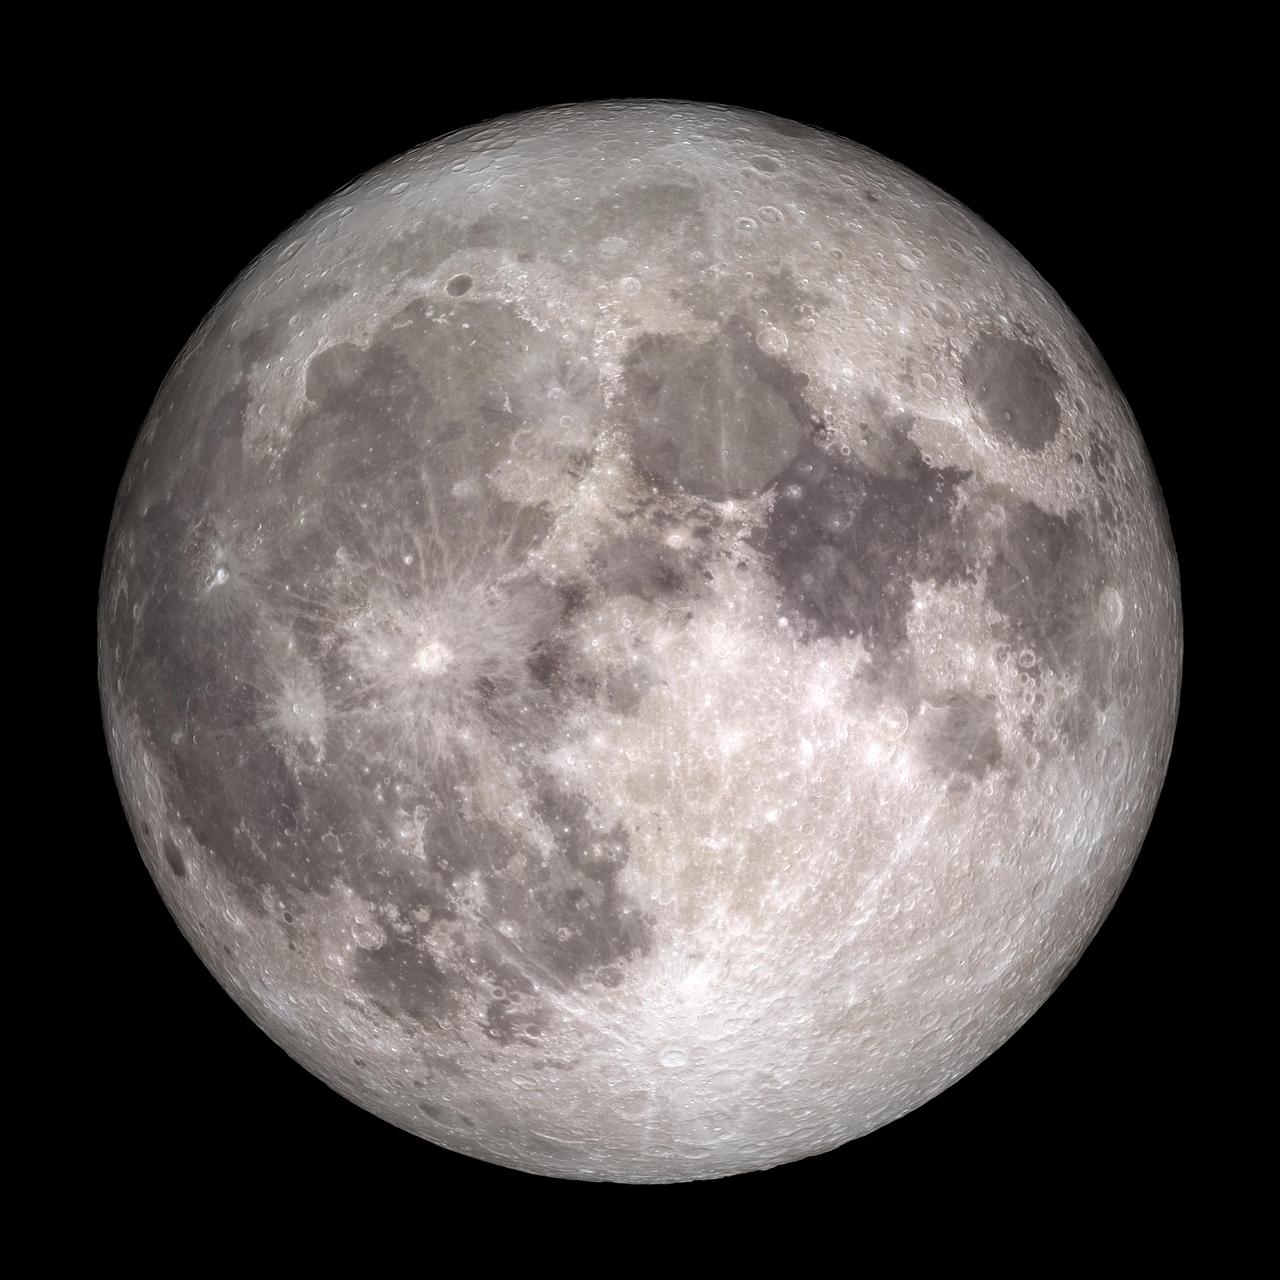
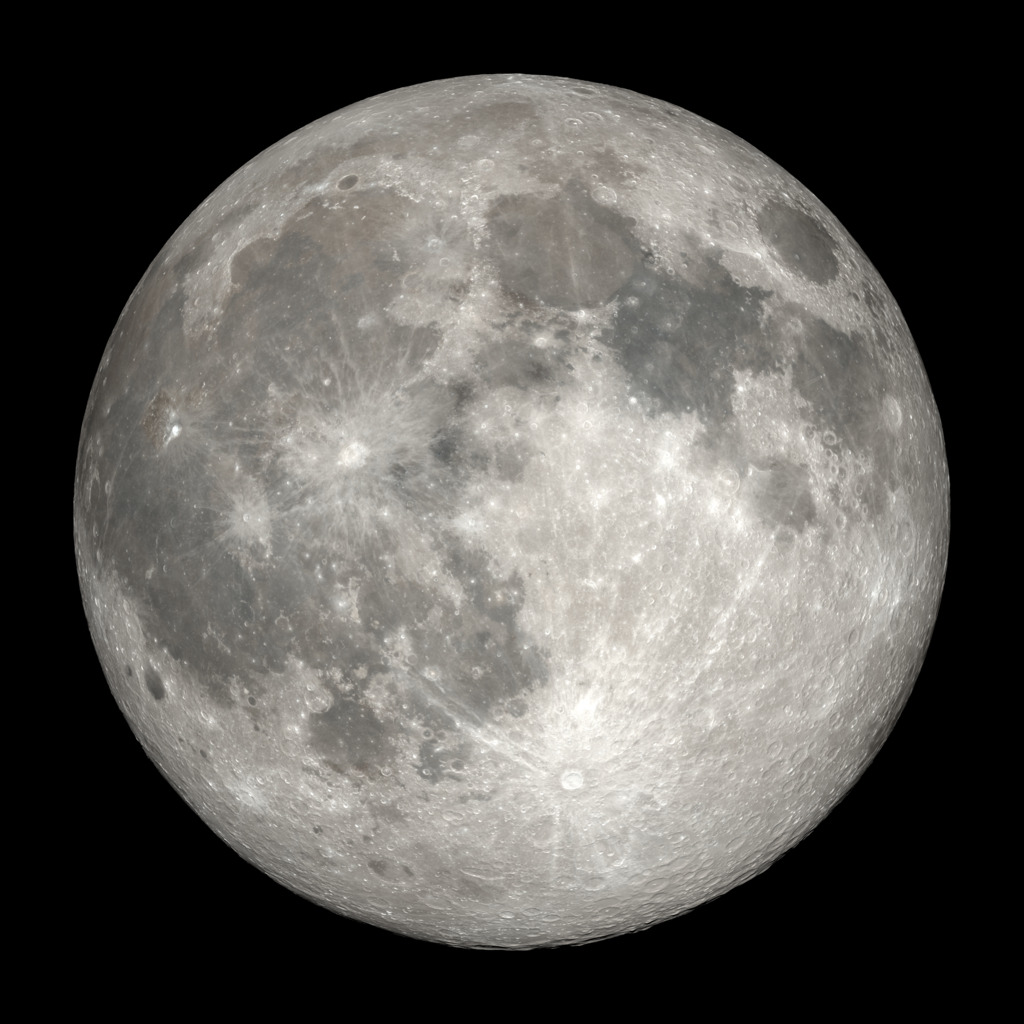
fix & feat: upgrade moon background to NASA SVS official imagery and reinforce AI project navigator with multi-entry triggers and dual smooth scroll

Changed region(s): [[0.0625, 0.0625, 0.9375, 0.9375]]

diff --git a/index.html b/index.html
@@ -64,10 +64,10 @@
         <div class="absolute -inset-10 rounded-full bg-gradient-to-tr from-sky-400/14 via-slate-200/10 to-indigo-400/10 blur-2xl pointer-events-none"></div>
         <div class="absolute -inset-2 rounded-full border border-slate-300/20 shadow-[0_0_60px_rgba(186,230,253,0.25)] pointer-events-none"></div>
 
-        <!-- 真實 NASA 1280x1280 高精細攝影月球本體 -->
+        <!-- 真實 NASA SVS (Scientific Visualization Studio) 高精細月球本體 -->
         <div class="w-full h-full rounded-full relative overflow-hidden cinema-moon-body shadow-[0_25px_60px_rgba(0,0,0,0.95)]">
-          <!-- NASA 高清月面紋理 (Full Near-side High-Resolution Imagery) -->
-          <img src="assets/moon.jpg" alt="Cinematic Moon" class="w-full h-full object-cover scale-105 pointer-events-none select-none filter contrast-[1.08] brightness-[0.96]">
+          <!-- NASA SVS 官方公開高清月面紋理 (Lunar Reconnaissance Orbiter LOLA/LROC Imagery) -->
+          <img src="assets/moon.jpg" alt="NASA SVS Cinematic Moon" class="w-full h-full object-cover scale-105 pointer-events-none select-none filter contrast-[1.08] brightness-[0.98]">
 
           <!-- 電影級 3D 球形晨昏線陰影層 (Cinematic 3D Spherical Terminator & Relief Lighting) -->
           <div class="absolute inset-0 cinema-moon-shadow"></div>
@@ -124,7 +124,7 @@
         </a>
 
         <!-- Desktop Nav Items -->
-        <nav class="hidden md:flex items-center gap-6 text-sm font-medium text-slate-300">
+        <nav class="hidden md:flex items-center gap-5 text-sm font-medium text-slate-300">
           <a href="#about" class="hover:text-cyan-300 transition-colors">核心特質</a>
           <a href="#combat-power" class="hover:text-amber-300 transition-colors flex items-center gap-1">
             <i data-lucide="activity" class="w-3.5 h-3.5 text-amber-400"></i>
@@ -138,6 +138,14 @@
           <a href="#education" class="hover:text-pink-300 transition-colors">學歷背景</a>
           <a href="#passions" class="hover:text-cyan-300 transition-colors">生活與探索</a>
 
+          <!-- 專案導覽 AI 啟動按鈕 (加強版導覽連結) -->
+          <button id="nav-project-ai-btn" class="nav-ai-trigger px-3.5 py-1.5 rounded-xl bg-gradient-to-r from-cyan-950/90 via-purple-950/80 to-[#12082b] border border-cyan-400/50 hover:border-cyan-300 text-cyan-300 hover:text-white transition-all shadow-md shadow-cyan-950/50 hover:shadow-cyan-400/30 flex items-center gap-2 group cursor-pointer" title="開啟 AI 智慧專案導覽員">
+            <span class="w-2 h-2 rounded-full bg-cyan-400 animate-ping"></span>
+            <i data-lucide="bot" class="w-4 h-4 text-cyan-400 group-hover:scale-110 transition-transform"></i>
+            <span class="font-bold text-xs sm:text-sm">專案導覽</span>
+            <span class="text-[9px] px-1.5 py-0.2 rounded bg-cyan-400/20 text-cyan-200 font-black">AI</span>
+          </button>
+
           <!-- 音效開關切換按鈕 -->
           <button id="sound-toggle-btn" class="p-2 rounded-xl bg-purple-950/60 hover:bg-purple-900/80 border border-purple-500/30 text-purple-300 hover:text-white transition-all shadow-sm" title="音效切換（開 / 關）">
             <i id="sound-icon" data-lucide="volume-2" class="w-4 h-4"></i>
@@ -150,6 +158,9 @@
 
         <!-- Mobile Menu Toggle -->
         <div class="md:hidden flex items-center gap-2">
+          <button id="mobile-nav-project-icon-btn" class="nav-ai-trigger p-2 rounded-lg bg-cyan-950/70 border border-cyan-500/40 text-cyan-300 hover:text-white" title="專案導覽 AI">
+            <i data-lucide="bot" class="w-5 h-5"></i>
+          </button>
           <button id="mobile-menu-btn" class="p-2 rounded-lg text-slate-300 hover:text-white hover:bg-purple-950/60 focus:outline-none">
             <i data-lucide="menu" class="w-6 h-6"></i>
           </button>
@@ -159,6 +170,15 @@
 
     <!-- Mobile Nav Menu -->
     <div id="mobile-menu" class="hidden md:hidden px-4 pt-2 pb-6 border-b border-purple-900/40 bg-[#080312]/95 space-y-3">
+      <!-- 手機版專案導覽專屬主按鈕 -->
+      <button id="mobile-nav-project-ai-btn" class="nav-ai-trigger w-full text-left py-2.5 px-3 rounded-xl bg-gradient-to-r from-cyan-950/90 via-purple-950/70 to-transparent border border-cyan-400/60 text-cyan-300 font-bold flex items-center justify-between cursor-pointer shadow-lg shadow-cyan-950/50">
+        <span class="flex items-center gap-2.5">
+          <i data-lucide="bot" class="w-5 h-5 text-cyan-400"></i>
+          <span class="text-white">🚀 專案導覽 (AI 智慧導覽員)</span>
+        </span>
+        <span class="text-[10px] px-2 py-0.5 rounded-full bg-cyan-400 text-black font-black">開啟導覽</span>
+      </button>
+
       <a href="#about" class="mobile-nav-link block py-2 text-slate-300 hover:text-cyan-400">核心特質</a>
       <a href="#combat-power" class="mobile-nav-link block py-2 text-amber-300">專業能力指標</a>
       <a href="#experience" class="mobile-nav-link block py-2 text-slate-300 hover:text-purple-300">經歷實績</a>
@@ -210,6 +230,10 @@
               <i data-lucide="mail" class="w-5 h-5 text-yellow-300"></i>
               預約面試 ｜ 聯絡洽談
             </a>
+            <button id="hero-ai-nav-btn" class="nav-ai-trigger inline-flex items-center gap-2.5 px-6 py-3.5 rounded-2xl border-2 border-cyan-400/60 bg-cyan-950/50 hover:bg-cyan-900/70 text-cyan-300 font-extrabold transition-all shadow-lg shadow-cyan-500/20 hover:scale-105 cursor-pointer">
+              <i data-lucide="bot" class="w-5 h-5 text-cyan-400 animate-pulse"></i>
+              🚀 專案導覽 (AI)
+            </button>
             <a href="#combat-power" id="combat-trigger-btn" class="inline-flex items-center gap-2.5 px-6 py-3.5 rounded-2xl border-2 border-amber-400/60 bg-amber-950/30 hover:bg-amber-900/50 text-amber-300 font-bold transition-all shadow-lg shadow-amber-500/20 hover:scale-105">
               <i data-lucide="activity" class="w-5 h-5 text-amber-400"></i>
               檢視專業能力指標
@@ -1233,10 +1257,19 @@
   <!-- ============================================================ -->
   <!-- 獨立輕量 AI 專案導覽助理 (Pure Frontend Cyber AI Navigator) -->
   <!-- ============================================================ -->
-  <div id="ai-navigator-root" class="fixed bottom-5 right-5 sm:bottom-7 sm:right-7 z-50 select-none">
+  <!-- 浮動導覽達成提示 (Navigation Toast Notification) -->
+  <div id="ai-nav-toast" class="fixed top-20 left-1/2 -translate-x-1/2 z-[99999] pointer-events-none transition-all duration-300 opacity-0 -translate-y-4">
+    <div class="px-5 py-2.5 rounded-2xl bg-[#0d071f]/95 border border-cyan-400/80 shadow-2xl shadow-cyan-500/40 text-xs sm:text-sm text-white font-bold flex items-center gap-2.5 backdrop-blur-xl">
+      <span class="w-2.5 h-2.5 rounded-full bg-cyan-400 animate-ping"></span>
+      <i data-lucide="compass" class="w-4 h-4 text-cyan-300"></i>
+      <span id="ai-nav-toast-text">已鎖定並導覽至展示區！</span>
+    </div>
+  </div>
+
+  <div id="ai-navigator-root" class="fixed bottom-5 right-5 sm:bottom-7 sm:right-7 z-[9999] pointer-events-none">
     
     <!-- 1. 浮動呼叫提示氣泡 (Floating Greeting Tooltip) -->
-    <div id="ai-nav-tooltip" class="hidden sm:flex items-center gap-2 mb-3 px-3.5 py-2 rounded-2xl bg-[#0d071d]/95 border border-cyan-500/40 shadow-xl shadow-cyan-950/50 text-xs text-slate-200 backdrop-blur-md cursor-pointer transition-all duration-300 hover:border-cyan-400 group">
+    <div id="ai-nav-tooltip" class="hidden sm:flex items-center gap-2 mb-3 px-3.5 py-2 rounded-2xl bg-[#0d071d]/95 border border-cyan-500/40 shadow-xl shadow-cyan-950/50 text-xs text-slate-200 backdrop-blur-md cursor-pointer transition-all duration-300 hover:border-cyan-400 group pointer-events-auto">
       <span class="w-2 h-2 rounded-full bg-emerald-400 animate-ping shrink-0"></span>
       <span class="font-bold text-transparent bg-clip-text bg-gradient-to-r from-cyan-300 via-sky-200 to-purple-300 group-hover:from-cyan-200 group-hover:to-pink-300 transition-all">
         專案導覽 AI 在線中！想探索哪項實績？
@@ -1245,9 +1278,9 @@
     </div>
 
     <!-- 2. 懸浮觸發按鈕 (Floating Launcher Button) -->
-    <button id="ai-nav-toggle-btn" class="relative group flex items-center justify-center w-14 h-14 sm:w-16 sm:h-16 rounded-full bg-gradient-to-tr from-cyan-500 via-purple-600 to-pink-500 p-[2px] shadow-2xl shadow-cyan-500/30 hover:shadow-cyan-400/50 hover:scale-105 active:scale-95 transition-all duration-300 focus:outline-none" aria-label="打開 AI 專案導覽員">
+    <button id="ai-nav-toggle-btn" class="relative group flex items-center justify-center w-14 h-14 sm:w-16 sm:h-16 rounded-full bg-gradient-to-tr from-cyan-500 via-purple-600 to-pink-500 p-[2px] shadow-2xl shadow-cyan-500/40 hover:shadow-cyan-400/60 hover:scale-105 active:scale-95 transition-all duration-300 focus:outline-none pointer-events-auto cursor-pointer" aria-label="打開 AI 專案導覽員">
       <!-- 旋轉流光光暈背景 -->
-      <span class="absolute inset-0 rounded-full bg-gradient-to-r from-cyan-400 via-purple-500 to-pink-500 blur-md opacity-70 group-hover:opacity-100 transition-opacity animate-pulse"></span>
+      <span class="absolute inset-0 rounded-full bg-gradient-to-r from-cyan-400 via-purple-500 to-pink-500 blur-md opacity-75 group-hover:opacity-100 transition-opacity animate-pulse"></span>
       
       <div class="relative w-full h-full rounded-full bg-[#0a0518] flex items-center justify-center text-white overflow-hidden">
         <!-- 未開啟時的圖示：機器人 / 導覽火花 -->
@@ -1268,7 +1301,7 @@
     </button>
 
     <!-- 3. 智能對話視窗 (Chat Window Modal) -->
-    <div id="ai-nav-window" class="hidden fixed bottom-20 right-3 sm:bottom-24 sm:right-7 w-[calc(100vw-1.5rem)] sm:w-[420px] max-w-[440px] h-[550px] max-h-[82vh] rounded-3xl backdrop-blur-2xl bg-[#090514]/95 border border-cyan-500/40 shadow-2xl shadow-purple-950/80 flex flex-col overflow-hidden transition-all duration-300 animate-in fade-in zoom-in-95">
+    <div id="ai-nav-window" class="fixed bottom-20 right-3 sm:bottom-24 sm:right-7 w-[calc(100vw-1.5rem)] sm:w-[420px] max-w-[440px] h-[550px] max-h-[82vh] rounded-3xl backdrop-blur-2xl bg-[#090514]/95 border border-cyan-500/40 shadow-2xl shadow-purple-950/80 flex flex-col overflow-hidden transition-all duration-300 pointer-events-auto" style="display: none;">
       
       <!-- 對話窗頂部 Header -->
       <div class="px-4 py-3.5 bg-gradient-to-r from-[#12082b] via-[#0b081e] to-[#12082b] border-b border-purple-500/30 flex items-center justify-between shrink-0">

diff --git a/script.js b/script.js
@@ -743,13 +743,27 @@ document.addEventListener('DOMContentLoaded', () => {
   let isAiThinking = false;
   let chatInitialized = false;
 
+  // 浮動導覽達成提示 (Toast Notification)
+  function showNavigationToast(title) {
+    const toast = document.getElementById('ai-nav-toast');
+    const toastText = document.getElementById('ai-nav-toast-text');
+    if (toast && toastText) {
+      toastText.textContent = `已鎖定並導覽至：${title}`;
+      toast.classList.add('show');
+      clearTimeout(window.__toastTimer);
+      window.__toastTimer = setTimeout(() => {
+        toast.classList.remove('show');
+      }, 2800);
+    }
+  }
+
   // 快捷切換視窗
   function toggleAiWindow(show) {
     if (show === undefined) show = !isAiWindowOpen;
     isAiWindowOpen = show;
 
     if (isAiWindowOpen) {
-      aiWindow.classList.remove('hidden');
+      aiWindow.style.display = 'flex';
       aiBtnIconIdle.classList.add('hidden');
       aiBtnIconActive.classList.remove('hidden');
       if (aiTooltip) aiTooltip.classList.add('hidden');
@@ -763,7 +777,7 @@ document.addEventListener('DOMContentLoaded', () => {
       }, 100);
       playClickLaser();
     } else {
-      aiWindow.classList.add('hidden');
+      aiWindow.style.display = 'none';
       aiBtnIconIdle.classList.remove('hidden');
       aiBtnIconActive.classList.add('hidden');
     }
@@ -866,52 +880,85 @@ document.addEventListener('DOMContentLoaded', () => {
     if (window.lucide) window.lucide.createIcons();
   }
 
-  // 綁定快捷按鈕點擊事件 (全域代理)
-  function bindQuickButtons() {
-    document.querySelectorAll('.ai-quick-btn').forEach(btn => {
-      btn.onclick = () => {
-        const query = btn.getAttribute('data-query');
-        if (query && !isAiThinking) {
-          handleUserQuery(query);
-        }
-      };
-    });
-  }
-  bindQuickButtons();
-
   // 平滑跳轉至目標專案區塊 + 科技全息高亮聚焦脈衝
-  function jumpToProjectSection(targetId) {
+  function jumpToProjectSection(targetId, targetTitle) {
     const el = document.getElementById(targetId);
-    if (!el) return;
+    if (!el) {
+      console.warn('Target element not found:', targetId);
+      return;
+    }
 
     playNavigateJumpSound();
 
-    // 手機螢幕上自動縮小對話框避免遮蔽視線
-    if (window.innerWidth < 640) {
-      toggleAiWindow(false);
-    }
+    // 1. 自動收合對話視窗，避免遮擋專案展示畫面
+    toggleAiWindow(false);
 
-    // 平滑捲動至視窗正中
-    el.scrollIntoView({ behavior: 'smooth', block: 'center' });
+    // 2. 顯示頂部全息導覽達成提示
+    showNavigationToast(targetTitle || '專案展示區');
 
-    // 觸發高亮脈衝聚焦光暈 (Pulse Highlight)
+    // 3. 高精度多重相容平滑捲動 (Dual Smooth Scroll Engine)
+    const headerOffset = 90;
+    const elementPosition = el.getBoundingClientRect().top;
+    const offsetPosition = elementPosition + window.pageYOffset - headerOffset;
+
+    window.scrollTo({
+      top: Math.max(0, offsetPosition),
+      behavior: 'smooth'
+    });
+
+    try {
+      el.scrollIntoView({ behavior: 'smooth', block: 'start' });
+    } catch (err) {}
+
+    // 4. 觸發醒目全息聚焦脈衝動畫 (Pulse Highlight)
     el.classList.remove('target-highlight-active');
     void el.offsetWidth; // 強制重繪
     el.classList.add('target-highlight-active');
 
     setTimeout(() => {
       el.classList.remove('target-highlight-active');
-    }, 2600);
+    }, 2800);
   }
 
-  // 專案跳轉按鈕事件監聽 (動態事件委派)
-  aiChatMessages.addEventListener('click', (e) => {
+  // 全域代理事件監聽 (確保任何動態生成的按鈕、導航列按鈕皆能秒回)
+  document.addEventListener('click', (e) => {
+    // 1. 導覽列與 Hero 的「專案導覽」主按鈕
+    const navTrigger = e.target.closest('.nav-ai-trigger');
+    if (navTrigger) {
+      e.preventDefault();
+      e.stopPropagation();
+      toggleAiWindow(true);
+
+      // 若手機版選單開啟中則自動收合
+      const mobileMenu = document.getElementById('mobile-menu');
+      if (mobileMenu && !mobileMenu.classList.contains('hidden')) {
+        mobileMenu.classList.add('hidden');
+      }
+      playClickLaser();
+      return;
+    }
+
+    // 2. 專案導覽直達跳轉按鈕 (.ai-jump-btn)
     const jumpBtn = e.target.closest('.ai-jump-btn');
     if (jumpBtn) {
+      e.preventDefault();
       const targetId = jumpBtn.getAttribute('data-target');
+      const title = jumpBtn.querySelector('.ai-jump-title')?.textContent?.trim() || '專案展示區';
       if (targetId) {
-        jumpToProjectSection(targetId);
+        jumpToProjectSection(targetId, title);
       }
+      return;
+    }
+
+    // 3. 快捷提問膠囊按鈕 (.ai-quick-btn)
+    const quickBtn = e.target.closest('.ai-quick-btn');
+    if (quickBtn) {
+      e.preventDefault();
+      const query = quickBtn.getAttribute('data-query');
+      if (query && !isAiThinking) {
+        handleUserQuery(query);
+      }
+      return;
     }
   });
 
@@ -1140,7 +1187,7 @@ document.addEventListener('DOMContentLoaded', () => {
                 <span>專案導覽直達</span>
                 <span class="text-[8px] px-1.5 py-0.2 rounded bg-cyan-400/20 text-cyan-200 uppercase tracking-wider">SMOOTH JUMP</span>
               </div>
-              <div class="text-xs sm:text-sm font-black text-white group-hover:text-cyan-200 transition-colors">
+              <div class="ai-jump-title text-xs sm:text-sm font-black text-white group-hover:text-cyan-200 transition-colors">
                 ${result.action.title}
               </div>
               <div class="text-[10px] text-slate-400 line-clamp-1">
@@ -1169,7 +1216,7 @@ document.addEventListener('DOMContentLoaded', () => {
               <i data-lucide="navigation" class="w-3.5 h-3.5"></i>
             </div>
             <div>
-              <div class="text-xs font-bold text-white group-hover:text-cyan-200 transition-colors">
+              <div class="ai-jump-title text-xs font-bold text-white group-hover:text-cyan-200 transition-colors">
                 ${act.title}
               </div>
               <div class="text-[10px] text-slate-400">

diff --git a/style.css b/style.css
@@ -391,20 +391,39 @@ html {
    AI 專案導覽助理專用樣式 (AI Project Navigator Styles)
    ============================================================ */
 
+/* 浮動導覽達成提示樣式 */
+#ai-nav-toast {
+  transform: translate(-50%, -15px);
+  transition: all 0.35s cubic-bezier(0.16, 1, 0.3, 1);
+}
+
+#ai-nav-toast.show {
+  opacity: 1 !important;
+  transform: translate(-50%, 0px) !important;
+}
+
+#ai-navigator-root {
+  pointer-events: none !important;
+}
+
+#ai-navigator-root > * {
+  pointer-events: auto !important;
+}
+
 /* 目標專案跳轉高亮脈衝聚焦動畫 (Target Highlight Pulse Aura) */
 @keyframes targetHighlightPulse {
   0% {
-    box-shadow: 0 0 0 0 rgba(0, 240, 255, 0.85), inset 0 0 25px rgba(0, 240, 255, 0.45);
+    box-shadow: 0 0 0 0 rgba(0, 240, 255, 0.9), inset 0 0 25px rgba(0, 240, 255, 0.5);
     border-color: #00f0ff;
     transform: scale(1.015);
   }
-  40% {
-    box-shadow: 0 0 45px 10px rgba(168, 85, 247, 0.9), inset 0 0 35px rgba(168, 85, 247, 0.5);
+  35% {
+    box-shadow: 0 0 50px 12px rgba(168, 85, 247, 0.95), inset 0 0 35px rgba(168, 85, 247, 0.6);
     border-color: #c084fc;
-    transform: scale(1.02);
+    transform: scale(1.025);
   }
-  75% {
-    box-shadow: 0 0 25px 4px rgba(0, 240, 255, 0.6), inset 0 0 15px rgba(0, 240, 255, 0.3);
+  70% {
+    box-shadow: 0 0 30px 6px rgba(0, 240, 255, 0.7), inset 0 0 20px rgba(0, 240, 255, 0.4);
     border-color: #38bdf8;
     transform: scale(1.01);
   }
@@ -415,7 +434,7 @@ html {
 }
 
 .target-highlight-active {
-  animation: targetHighlightPulse 2.4s cubic-bezier(0.2, 0.8, 0.2, 1) forwards !important;
+  animation: targetHighlightPulse 2.6s cubic-bezier(0.2, 0.8, 0.2, 1) forwards !important;
   border-color: #00f0ff !important;
   z-index: 30 !important;
   position: relative !important;
